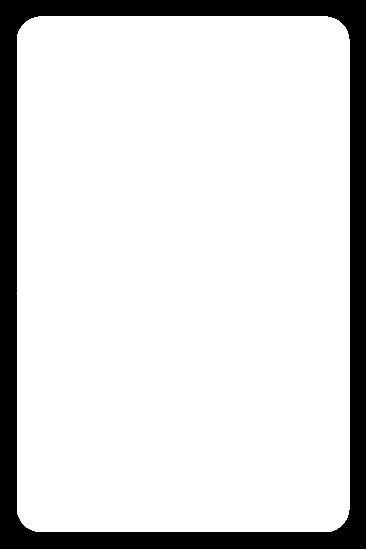
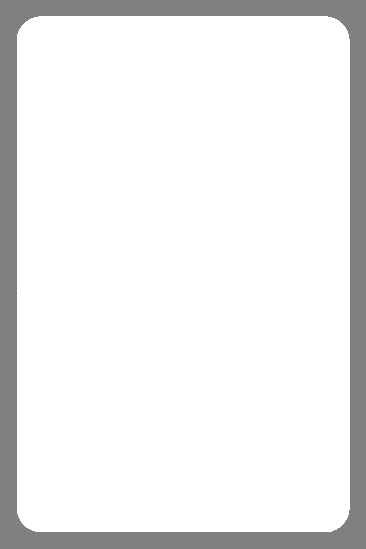
Display Google Photos gallery

Changed region(s): [[0.0, 0.0, 1.0, 1.0]]

diff --git a/public/assets/js/collect.js b/public/assets/js/collect.js
@@ -1,34 +1,96 @@
 window.onload = function() {
     'use strict';
-    getAlbumAjax(populateAlbum);
+
 
 }
 
+const regex = /https:\/\/photos\.app\.goo\.gl\/([a-zA-Z0-9\-_]*)/i;
+const test_link = "https://photos.app.goo.gl/QWsU1knpjTjcr9Pb9";
 
+function addFrames() {
+  $(".image_frame").each(function () {
+    if ($(this).width() > $(this).height()) {
+      $(this).append(`<img class="card_stack_img" src="assets/img/print_mask_horizontal.png" >`);
+    } else {
+      $(this).append(`<img class="card_stack_img" src="assets/img/print_mask_vertical.png" >`);
+    }
+  });
+}
+
+function getMeta(url, callback) {
+    var img = new Image();
+    img.src = url;
+    img.onload = function() { callback(this.width, this.height); }
+}
+
+function checkImages(photos, imgMeta) {
+
+}
 
 function addPhoto(album, src) {
   src += "=w2048";
   album.append(
-    `<div class="col-4 card_frame">
-      <img class="card_image" src="${src}">
-    </div>`
-  )
+     `<div class="col-4 card_frame">
+        <div class="image_frame">
+          <img class="card_image" src="${src}">
+        </div>
+      </div>`
+  );
+}
+
+function populateImages(imgStore) {
+  album = $("#album");
+  for (const key in imgStore) {
+    if (imgStore[key].ratio >= 1) {
+      addPhoto(album, key);
+    };
+  }
+  for (const key in imgStore) {
+    if (imgStore[key].ratio < 1) {
+      addPhoto(album, key);
+    };
+  }
+  addFrames();
 }
 
 function populateAlbum(result) {
   var photos = result;
-  album = $("#album");
+  var imgStore = new Object();
+  var imgCount = 0;
+
   photos.forEach(function(item){
-    addPhoto(album, item);
+    var img = new Image();
+    img.src = item;
+    imgStore[item] = {"img" : img}
+    img.onload = function () {
+      imgStore[this.src] = {"ratio" : this.width / this.height};
+      imgCount++;
+      if (imgCount == photos.length) {
+        populateImages(imgStore);
+      }
+    }
   })
 }
 
-function getAlbumAjax(onSuccess){
+function getAlbumAjax(url, onSuccess){
   $.ajax({
-    url: "/album/QWsU1knpjTjcr9Pb9",
+    url: url,
     type:"GET",
     success: onSuccess,
     error: function(error){
       console.log(`Error${error}`);
     }});
 }
+
+$("#loadAlbum").click(function() {
+  var link = $("#albumLink").val();
+  var result = link.match(regex);
+  if (result) {
+    const key = result[1];
+    url = "/album/" + key;
+    getAlbumAjax(url, populateAlbum);
+  } else {
+    alert("Unable to find Google Photos album from that link. Please check it and try again.")
+  }
+
+});

diff --git a/public/assets/css/additions.css b/public/assets/css/additions.css
@@ -26,7 +26,7 @@
 @media screen and (max-width: 1680px) {
 
 	.card_image {
-		max-height: 350px;
+		max-height: 400px;
 	}
 
 }
@@ -34,7 +34,7 @@
 @media screen and (max-width: 1280px) {
 
 	.card_image {
-		max-height: 300px;
+		max-height: 350px;
 	}
 
 }
@@ -42,7 +42,7 @@
 @media screen and (max-width: 980px) {
 
 	.card_image {
-		max-height: 250px;
+		max-height: 300px;
 	}
 
 }
@@ -50,7 +50,7 @@
 @media screen and (max-width: 736px) {
 
 	.card_image {
-		max-height: 200px;
+		max-height: 250px;
 	}
 
 }
@@ -63,17 +63,40 @@
 
 }
 
+#album {
+	background: #808080;
+	border-radius: 5px;
+	padding: 2%;
+	margin: 0;
+}
+
+/* #test {
+	background: #ffffff;
+	border-radius: 5px;
+	margin-left: 1%;
+	margin-right: 1%;
+} */
+
+.card_stack_img {
+  width: 100%;
+	height: auto;
+  opacity: 1;
+	z-index: 9;
+  position: absolute;
+  top: 0;
+  left: 0;
+}
 
 .card_image {
 	max-width: 100%;
-	height: auto;
-	border-radius: 15px;
+	/* border-radius: 5%;
 	border: 1px solid #000000;
-	box-shadow: 1px 1px #888888;
+	box-shadow: 1px 1px #888888; */
 }
 
-#album {
-	background: #ffffff;
+.image_frame {
+	padding: 0;
+	position: relative;
 }
 
 .card_frame {
@@ -81,10 +104,12 @@
 	display: flex;
 	align-items: center;
   justify-content: center;
-	padding: 2%;
+	padding: 0;
+	/* padding: 1%; */
 	/* border: thick solid #3498db;
 	box-shadow: 2px 2px #888888; */
 }
+
 
 .emo {
   margin-left: 40px;

diff --git a/public/index.html b/public/index.html
@@ -147,17 +147,33 @@
 							</div>
 						</div>
 					</ul>
-					<div id="album" class="row align-items-center">
-					</div>
 
-					<div class="row">
+					<!-- <div class="row">
 						<div class="col-6"></div>
 						<div class="col-6 align-self-end">
 							<a href="crop.html" class="btn btn-lg btn-block btn-warning get_started"><i class="fa fa-folder" aria-hidden="true"></i> I have my 9 images in a folder. I'm ready to crop. &nbsp;<i class="fa fa-angle-right" aria-hidden="true"></i><i class="fa fa-angle-right" aria-hidden="true"></i></a>
 				    </div>
 					</div>
-				</div>
+				</div> -->
       </section>
+			<div class="row">
+				<div class="col">
+					<input type="text" id="albumLink">
+					<a class="btn btn-primary" id="loadAlbum" href="javascript:void(0);">Get Photos</a>
+				</div>
+			</div>
+			<div id="album" class="row align-items-center">
+			</div>
+
+			<!-- <div id="test" class="row align-items-center">
+				<div class="col-3 card_frame">
+					<div class="image_frame">
+		        <img class="card_image" src="https://lh3.googleusercontent.com/YlDgovNra6lna1alhxZmkBrPVEHFdrbZyQkLWHhpGAqRV1Kmwg3pfD_pHySsKyXleJro2_q-m2dgc4nhCV3b3j6sI0lmxZxjNCroHkBk20Yax7mHKz3TdHtL8Uy9YO01ukwgqPAsyn8=w2048">
+		        <img class="card_stack_img" src="assets/img/print_mask_horizontal.png" >
+					</div>
+				  </div>
+		    </div>
+			</div> -->
     </div>
 
 

diff --git a/public/assets/css/style.css b/public/assets/css/style.css
@@ -105,19 +105,6 @@ label.btn {
   position: relative;
 }
 
-.stack-top{
-  z-index: 9;
-  position: absolute;
-  top: 0;
-  left: 0;
-}
-
-.fit-img {
-  max-width: 100%;
-  max-height: 100%;
-  opacity: 0.8;
-}
-
 .img-preview > img {
   max-width: 100%;
 }

diff --git a/public/assets/css/main.css b/public/assets/css/main.css
@@ -218,7 +218,7 @@
 
 /* Grid */
 
-	/* .row {
+	.row {
 		border-bottom: solid 1px transparent;
 		-moz-box-sizing: border-box;
 		-webkit-box-sizing: border-box;
@@ -1547,7 +1547,7 @@
 			margin-left: 8.33333%;
 		}
 
-	} */
+	}
 
 /* Basic */
 
